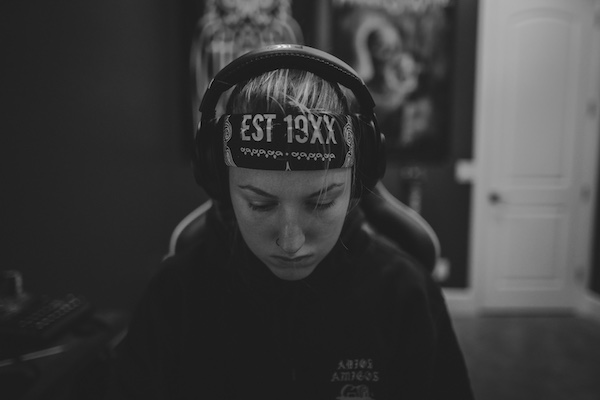
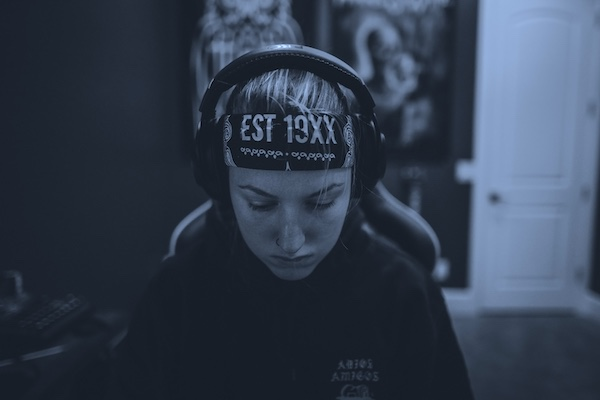
Background/color change + tech stack

diff --git a/style.css b/style.css
@@ -12,13 +12,13 @@ h2 {
     font-family: 'Raleway', sans-serif;
     font-size: 2rem;
     font-weight: 700;
-    text-shadow: 1px 1px 1px rgba(0, 0, 0, 0.5);
+    text-shadow: 1px 1px 5px rgba(0, 0, 0, 0.7);
     margin: 0;
 }
 
 body {
-    background-color: #191919;
-    font-family: 'Playfair Display', serif;
+    background-color: black;
+    font-family: 'Times New Roman', Times, serif;
     margin: 0;
     padding: 0;
     width: 100%;
@@ -39,8 +39,8 @@ nav{
 
 #logo {
     color: #F8F8FF;
-    background-color: rgba(98, 27, 33, 0.7);
-    border-color: #5A0001;
+    background-color: rgba(52, 50, 168, 1);
+    border-color: #3432a8;
     border-width: 4px;
     border-radius: 20px;
     list-style-type: none;
@@ -50,15 +50,16 @@ nav{
 
 .nav-items {
     display: flex;
+    align-items: center;
+    justify-content: flex-end;
     list-style-type: none;
     padding: 0;
-    align-items: center;
     margin: 0;
     margin-left: 55%;
 }
 
 .nav-item a {
-    background-color: rgba(98, 27, 33, 0.7);
+    background-color: rgba(52, 50, 168, 0.4);
     color: #F8F8FF;
     text-decoration: none;
     margin-right: 1.5rem;
@@ -66,31 +67,30 @@ nav{
     list-style: none;
     font-size: 1em;
     font-weight: 400;
-    text-shadow: 1px 1px 1px rgba(0, 0, 0, 0.5);
+    text-shadow: 1px 1px 2px rgba(0, 0, 0, 0.7);
     letter-spacing: 2px;
-    border-color: #5A0001;
+    border-color: #3432a8;
     border-width: 4px;
     border-radius: 15px;
 }
 
 .nav-item a:hover {
-    background-color: rgba(98, 27, 33, 1);
+    background-color: rgba(52, 50, 168, 1);
 }
 
 .intro-container {
-    background-image: url(./Images/igor-omilaev-Wa4blgubrQA-unsplash.jpg);
+    background-image: url(./Images/background.jpg);
     background-position: center;
     background-size: cover;
     background-repeat: no-repeat;
     display: flex;
     flex-direction: column;
     align-items: center;
-    justify-content: center;
+    justify-content: flex-end;
     flex-wrap: wrap;
     width: 100%;
     height: 700px;
 }
-
 
 .intro-text-container {
     /*display: block;
@@ -102,11 +102,9 @@ nav{
     flex-wrap: wrap;
     text-align: center;
     color: #F8F8FF;
-    margin-top: 3.5rem;
-    margin-bottom: 3.5rem;
-    margin-left: 1rem;
+    margin: 4rem 1rem 0 1rem;
     top: 100px;
-    text-shadow: 1px 1px 20px rgba(0, 0, 0, .5);
+    text-shadow: 1px 1px 1px rgba(0, 0, 0, 1);
 }
 
 .intro-text-container h1 {
@@ -118,15 +116,27 @@ nav{
 }
 
 .intro-text-container p {
-    font-size: 1.1rem;
+    border-radius: 5px;
+    font-size: 1.5rem;
+    font-weight: 400;
+    width: 70%;
+    letter-spacing: 2px;
+    line-height: 2;
+
+}
+
+p.stack {
+    font-size: 1.5rem;
+    font-weight: 700;
     width: 50%;
 }
 
 .intro-text-container img {
     border-radius: 50%;
+    box-shadow: 0 4px 8px rgba(0, 0, 0, 0.4);
     width: 200px;
     height: 200px;
     object-fit: cover;
-    margin: 0;
+    margin: 0 0 1.2rem 0;
     padding: 0;
 }

diff --git a/index.html b/index.html
@@ -8,6 +8,7 @@
         <link rel="preconnect" href="https://fonts.googleapis.com">
         <link rel="preconnect" href="https://fonts.gstatic.com" crossorigin>
         <link href="https://fonts.googleapis.com/css2?family=Playfair+Display:wght@400;700;800&family=Raleway:wght@400;700;800&display=swap" rel="stylesheet">
+        <link rel="stylesheet" href="https://cdnjs.cloudflare.com/ajax/libs/font-awesome/6.0.0/css/all.min.css" integrity="sha512-" crossorigin="anonymous" referrerpolicy="no-referrer" />
     </head>
     <body>
         <nav>
@@ -26,7 +27,8 @@
                     <div class="intro-text-container">
                         <img class="portrait" src="./Images/portrait.JPG"/>
                         <h1>Bailey Henderson</h1>
-                        <p>Hello and Welcome! My name is Bailey and besides my addiction to coding and being a passionate Fullstack Developer, I enjoy all things Halloween, Camping, and World of Warcraft. Let's collaborate and bring your ideas to life! Feel free to explore my portfolio and reach out to discuss how we can work together on your next exciting project.</p>
+                        <p>Hello and Welcome! My name is Bailey and I am a passionate Fullstack Developer. Let's collaborate and bring your ideas to life! Feel free to explore my portfolio and reach out to discuss how we can work together on your next exciting project.</p>
+                        <p class="stack">Tech Stack |  <i class="fa-solid fa-database"></i> <i class="fab fa-react"></i> <i class="fab fa-node"></i> </p>
                     </div>
                 </div>
             </section>
